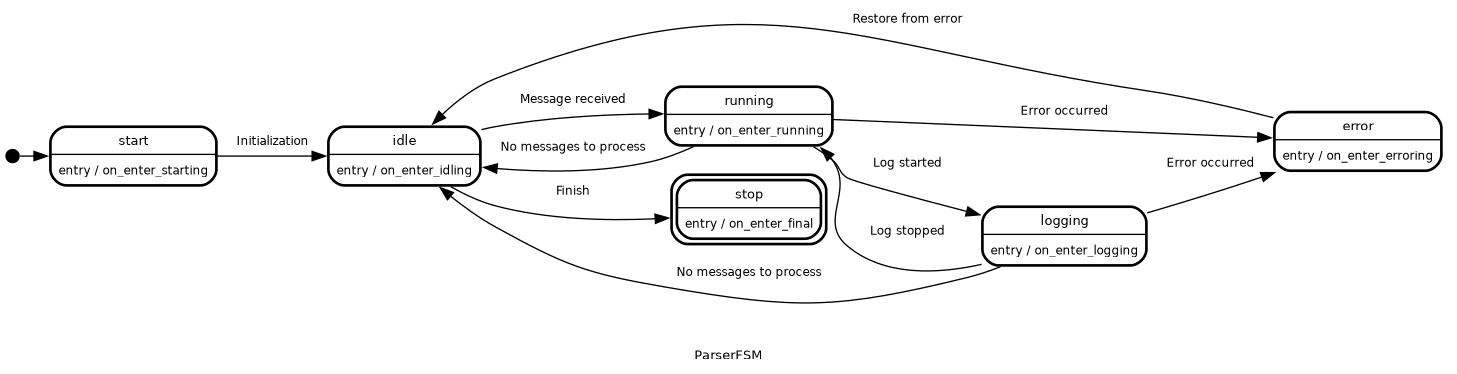
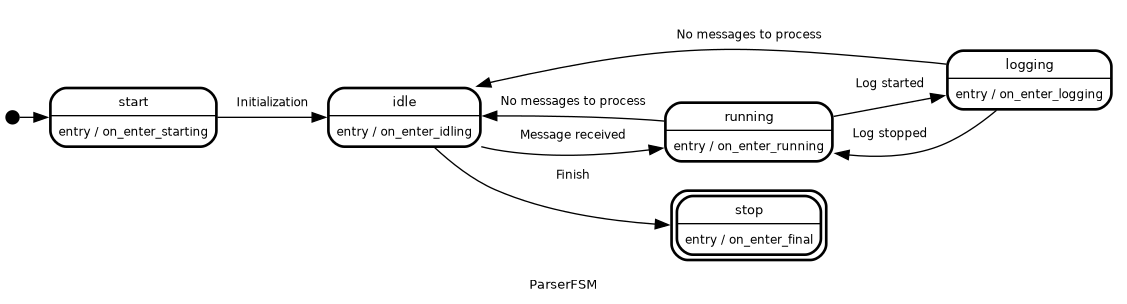
feat: FSMs

diff --git a/src/parser/parserfsm.py b/src/parser/parserfsm.py
@@ -7,6 +7,7 @@ from statemachine import State, StateMachine
 from statemachine.contrib.diagram import DotGraphMachine
 from statemachine.transition_list import TransitionList
 
+from lib.external.serializers.py.telemetry.status import Status, TelemetryState
 from src.utils.logger_utils import logger
 from src.utils.tlm_fsm import TelemetryFSM
 
@@ -24,7 +25,6 @@ class ParserFSM(StateMachine):
     idling: State = State("idle")
     running: State = State("running")
     logging: State = State("logging")
-    erroring: State = State("error")
     final: State = State("stop", final=True)
 
     # Event transitions
@@ -34,9 +34,6 @@ class ParserFSM(StateMachine):
                                               | logging.to(idling))
     log_started: TransitionList = running.to(logging)
     log_stopped: TransitionList = logging.to(running)
-    error_occurred: TransitionList = (running.to(erroring)
-                                      | logging.to(erroring))
-    restore_from_error: TransitionList = erroring.to(idling)
     finish: TransitionList = idling.to(final)
 
     def __init__(self,
@@ -123,14 +120,6 @@ class ParserFSM(StateMachine):
                 self.log_state(f"Error signaling state: {e}", signal=False)
         return False
 
-    def restore(self):
-        """
-        Restores the FSM from an error state to the idling state.
-        This method is intended to be called when an error has occurred
-        and the FSM needs to be restored to a stable state.
-        """
-        self.send('restore_from_error')
-
     def on_message_received(self):
         """
         Callback for the message_received event.
@@ -151,20 +140,6 @@ class ParserFSM(StateMachine):
         Logs the stop of logging.
         """
         self.log_state("Stop logging")
-
-    def on_error_occurred(self):
-        """
-        Callback for the error_occurred event.
-        Logs the occurrence of an error.
-        """
-        self.log_state("Error occurred")
-
-    def on_restore(self):
-        """
-        Callback for the restore event.
-        Logs the restoration from an error state.
-        """
-        self.log_state("Restored from error")
 
     def on_finish(self):
         """
@@ -205,15 +180,6 @@ class ParserFSM(StateMachine):
         self.log_state("Entering logging state")
         self.signal_state()
 
-    def on_enter_erroring(self):
-        """
-        Callback for entering the erroring state.
-        Logs the entry into the erroring state.
-        """
-        self.log_state("Entering erroring state")
-        self.signal_state()
-        self.restore()
-
     def on_enter_final(self):
         """
         Callback for entering the final state.
@@ -222,7 +188,7 @@ class ParserFSM(StateMachine):
         self.log_state("Entering final state")
         self.signal_state()
 
-    def new_telemetry_status(self, telemetry_status):
+    def new_telemetry_status(self, telemetry_status: Status) -> None:
         """
         Handles a new telemetry status message.
         This method is intended to be called when a new telemetry status message is received.
@@ -230,7 +196,21 @@ class ParserFSM(StateMachine):
         Args:
             telemetry_status: The new telemetry status message.
         """
-        raise NotImplementedError("This method should be implemented.")
+        telemetry_state: TelemetryState = telemetry_status.status.telemetryState
+        if telemetry_state:
+            try:
+                state_changed: bool = self.tlm_fsm.set_current_state(
+                    telemetry_state)
+                if state_changed:
+                    self.tlm_state_changed(telemetry_state)
+            except ValueError as e:
+                self.log_state(f"Error setting current state: {e}")
+
+    def tlm_state_changed(self, new_state: TelemetryState) -> None:
+        if new_state == TelemetryState.RUN:
+            self.send('log_started')
+        else:
+            self.send('log_stopped')
 
 
 #ParserFSM.draw('parser_fsm.png')

diff --git a/src/utils/tlm_fsm.py b/src/utils/tlm_fsm.py
@@ -2,9 +2,13 @@
 Finite State Machine of Telemetry as far as the Influx Logger knows.
 '''
 
+from threading import Lock
+
 from statemachine import State, StateMachine
 from statemachine.contrib.diagram import DotGraphMachine
 from statemachine.transition_list import TransitionList
+
+from lib.external.serializers.py.telemetry.status import TelemetryState
 
 
 class TelemetryFSM(StateMachine):
@@ -13,14 +17,14 @@ class TelemetryFSM(StateMachine):
     '''
 
     # States
-    initializing: State = State('INIT', initial=True)
-    waiting: State = State('WAIT_READY')
-    idling: State = State('IDLE')
-    setup_running: State = State('SETUP_RUN')
-    running: State = State('RUN')
-    erroring: State = State('ERROR')
+    initializing: State = State(TelemetryState.INIT.name, initial=True)
+    waiting: State = State(TelemetryState.WAIT_READY.name)
+    idling: State = State(TelemetryState.IDLE.name)
+    setup_running: State = State(TelemetryState.SETUP_RUN.name)
+    running: State = State(TelemetryState.RUN.name)
+    erroring: State = State(TelemetryState.ERROR.name)
 
-    # Transitions
+    # Eventless transitions
     init_to_waitready: TransitionList = initializing.to(waiting)
     init_to_idle: TransitionList = initializing.to(idling)
     init_to_error: TransitionList = initializing.to(erroring)
@@ -45,6 +49,10 @@ class TelemetryFSM(StateMachine):
         Name of the FSM, used for logging purposes.
         '''
         StateMachine.__init__(self)
+        self._mutex: Lock = Lock()
+        '''
+        Mutex for thread-safe operations on the FSM.
+        '''
 
     @staticmethod
     def draw(filename: str = 'handler_fsm.png'):
@@ -54,3 +62,34 @@ class TelemetryFSM(StateMachine):
             filename (str): The name of the file to save the FSM diagram.
         """
         DotGraphMachine(TelemetryFSM).get_graph().write(filename, format='png')
+
+    def set_current_state(self, state: TelemetryState) -> bool:
+        """
+        Sets the current state of the FSM based on the provided state.
+        Args:
+            state (TelemetryState): The state to set as the current state.
+        """
+        if state.name in self.states:
+            if self.current_state != self.states[state.name]:
+                self._change_state(state)
+                return True
+            else:
+                # If the current state is already the desired state, do nothing
+                pass
+        else:
+            raise ValueError(f"Invalid state name: {state}")
+        return False
+
+    def _change_state(self, new_state: TelemetryState) -> None:
+        """
+        Changes the current state of the FSM to the specified state.
+        Args:
+            new_state (TelemetryState): The state to change to.
+        """
+        with self._mutex:
+            self.current_state.exit()
+            self.current_state = self.states[new_state.name]
+            self.current_state.enter()
+
+
+#TelemetryFSM.draw('handler_fsm.png')
